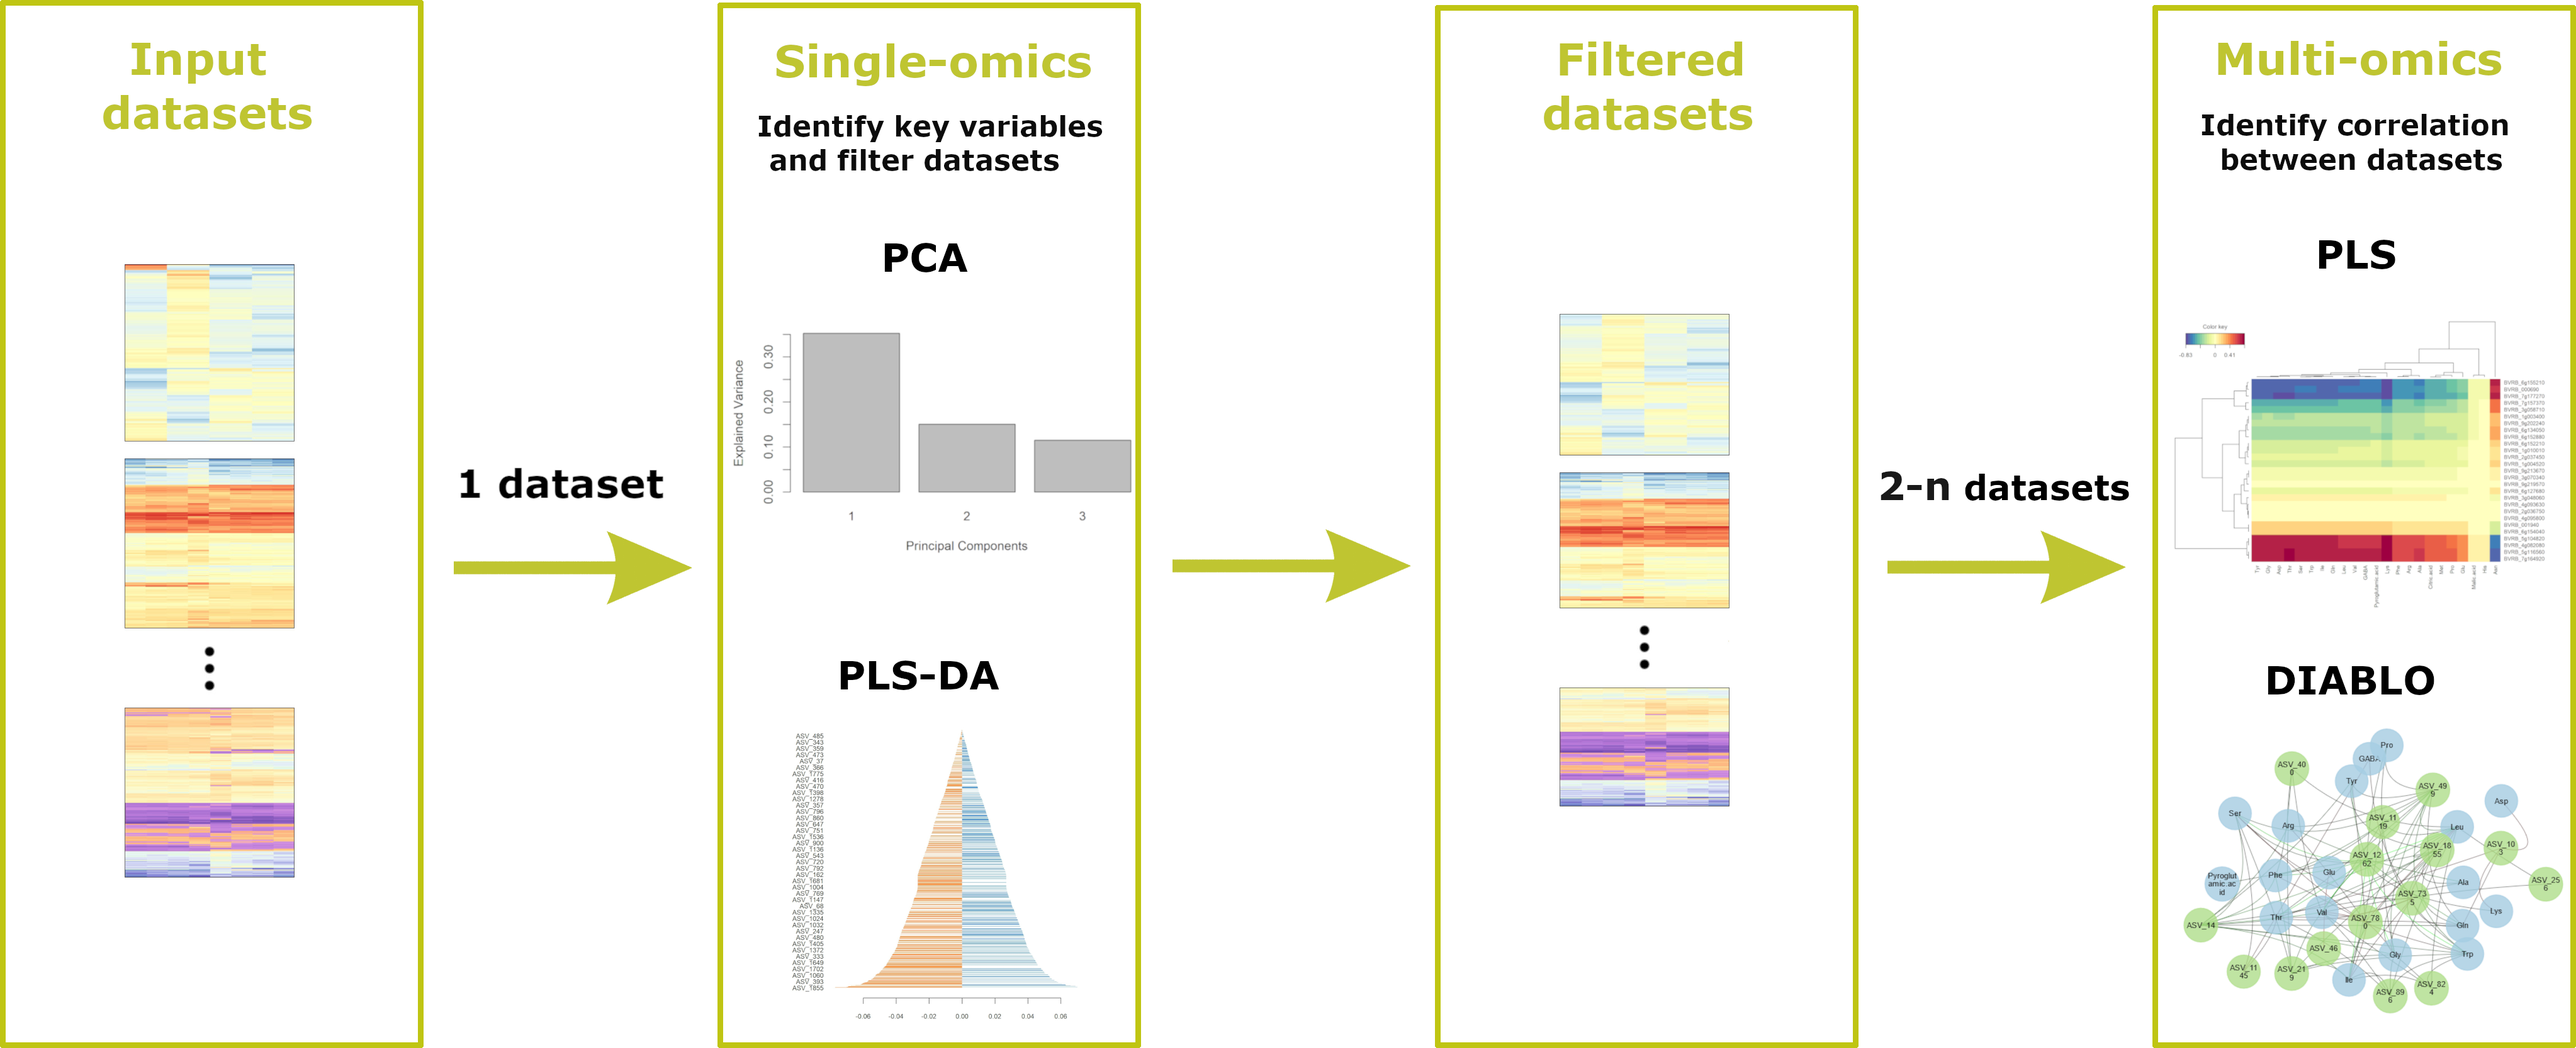
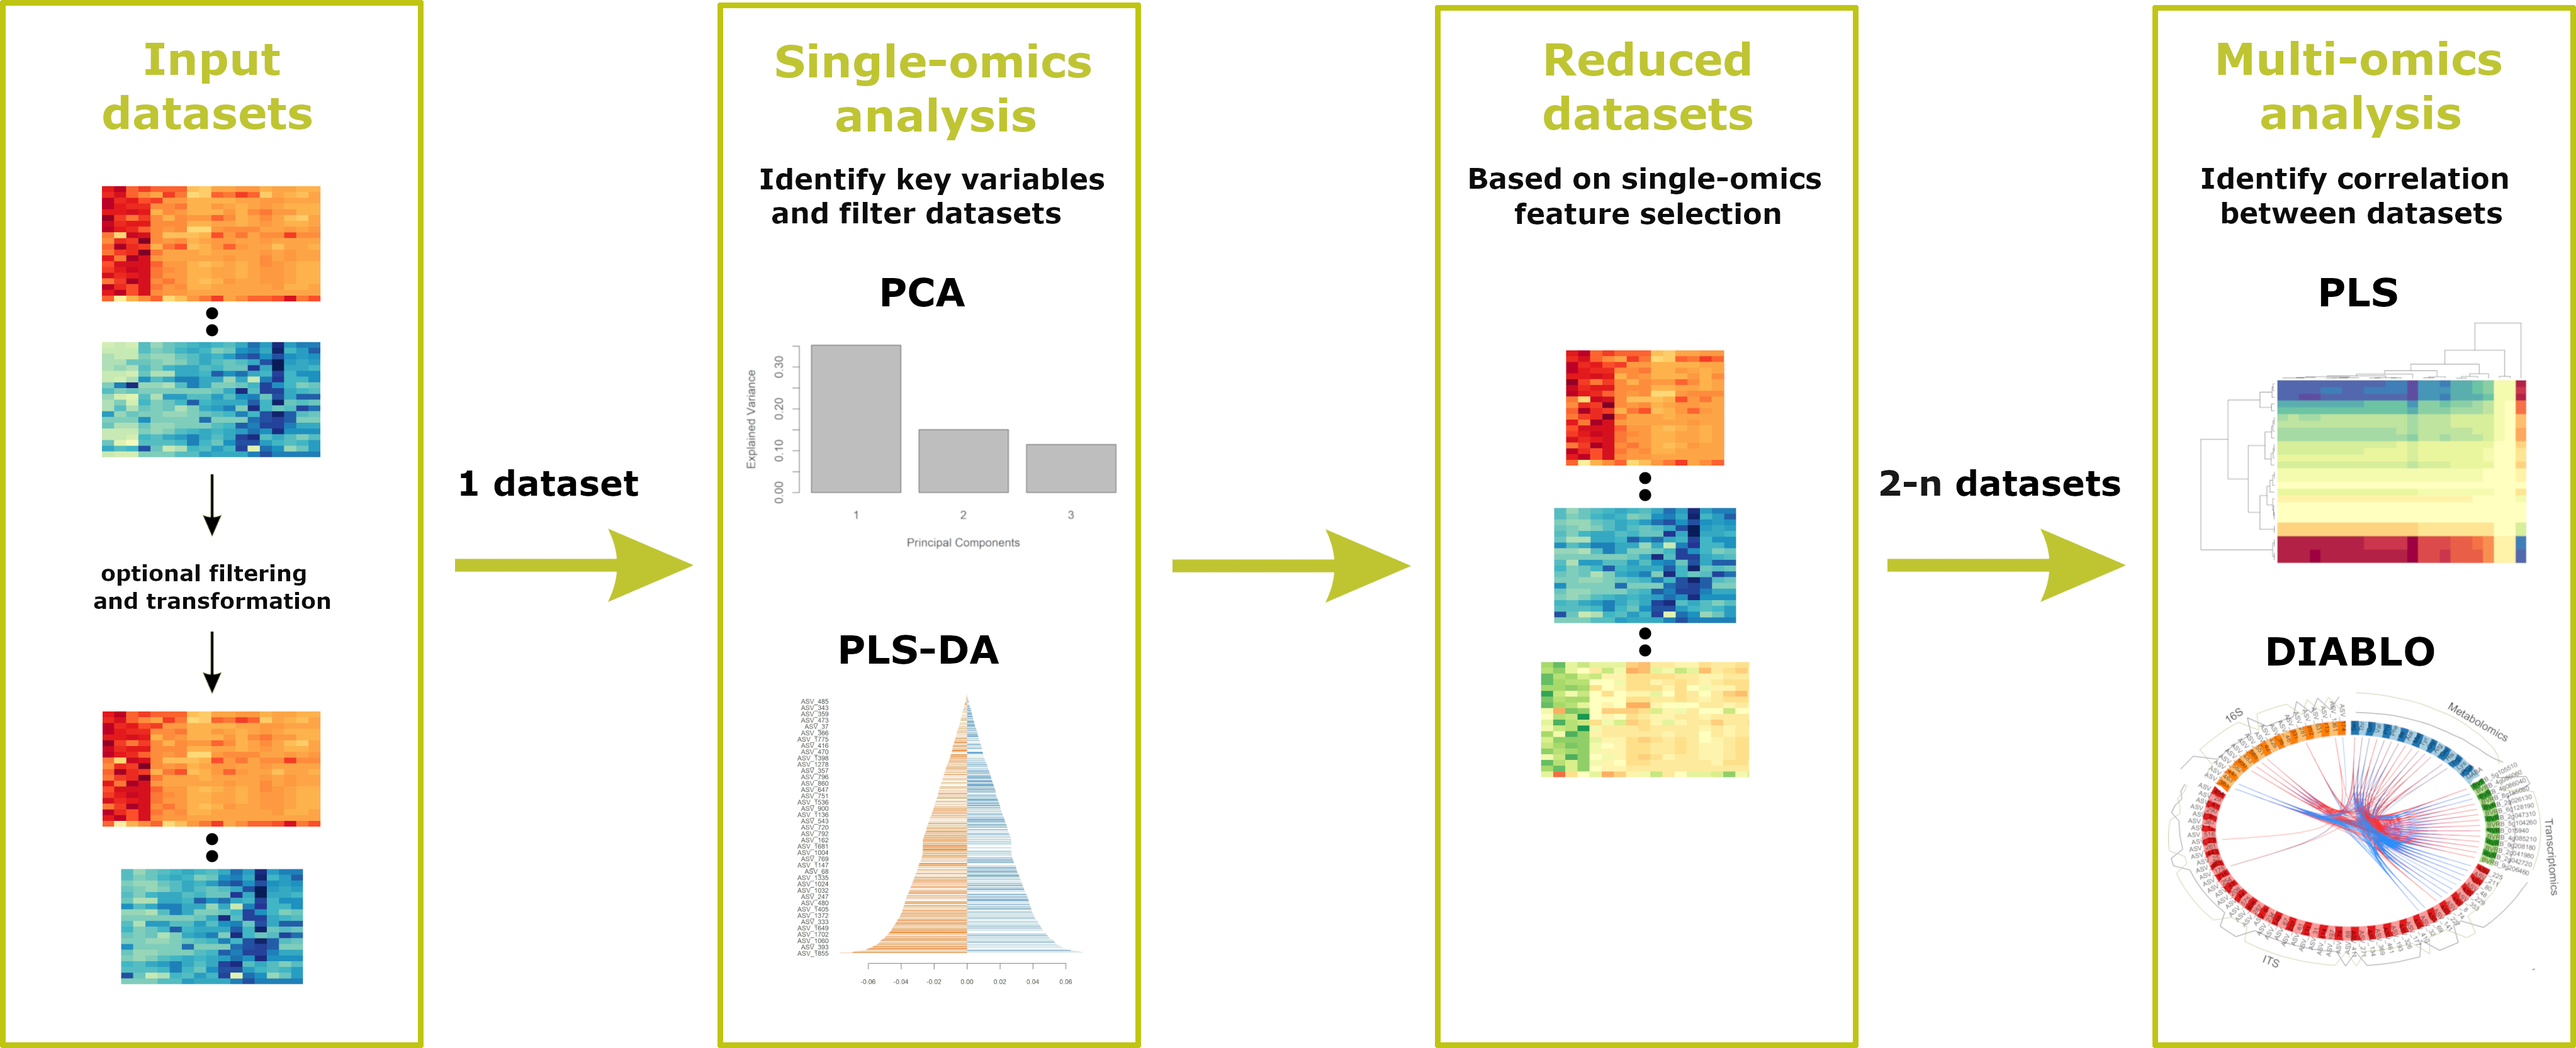
Updated workflow

diff --git a/inst/app/www/01-home.md b/inst/app/www/01-home.md
@@ -17,7 +17,7 @@ mixOmics provides numerous analysis algorithms for the integrative analysis of o
 ### Workflow
 To make use of all the functionality provided by Holomics, a certain workflow should be followed.
 
-<p class="workflow-step">Input datasets: </p> The needed datasets for the analyses have to be uploaded via the "Data upload" page. These datasets include the collected omics data itself (e.g. count tables) and a separate file containing the allocated classes (meta information) of the samples measured in the omics datasets. <br>
+<p class="workflow-step">Input datasets: </p> The needed datasets for the analyses have to be uploaded via the "Data upload" page. These datasets include the collected omics data itself (e.g. count tables) and a separate file containing the allocated classes (meta information) of the samples measured in the omics datasets. The uploaded omics datasets will optionally be pre-filtered/transformed before they can be used for the single-omics analyses. <br>
 
 <p class="workflow-step">Single-omics analyses: </p> With the single-omics analyses you can get a first impression of your data. You can identify the key features and filter your dataset accordingly.   <br>
 
